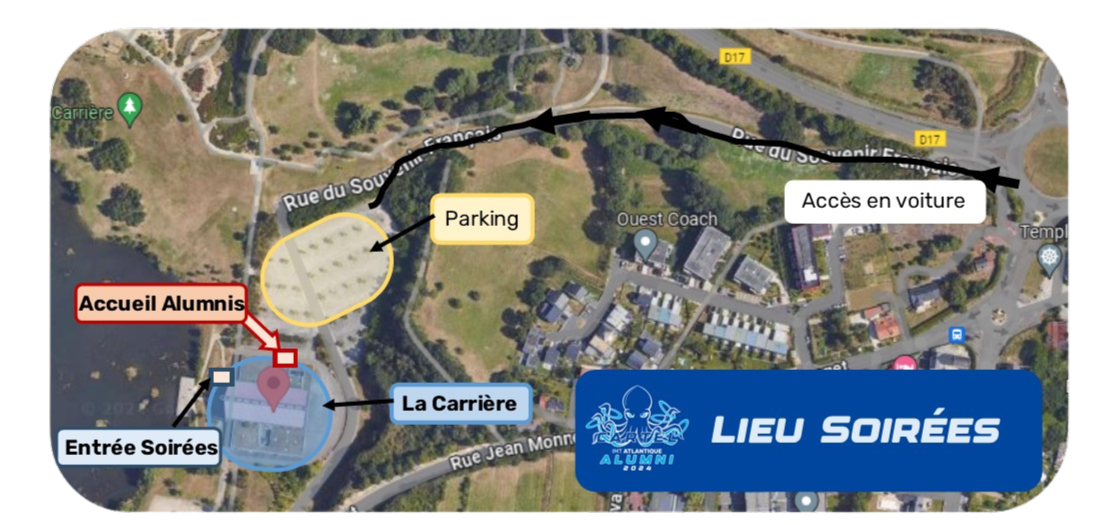
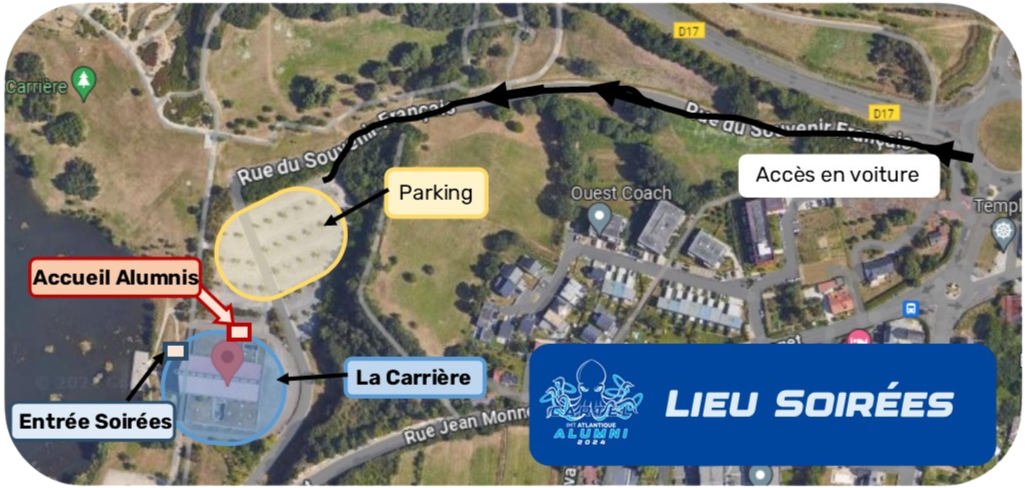
modif page info

diff --git a/alumni/info.html b/alumni/info.html
@@ -3,21 +3,121 @@
         <meta charset="utf-8">
         <link href="https://cdn.jsdelivr.net/npm/bootstrap@5.2.3/dist/css/bootstrap.min.css" rel="stylesheet">
         <script src="https://cdn.jsdelivr.net/npm/bootstrap@5.2.3/dist/js/bootstrap.bundle.js"></script>
-        <script type="text/javascript" src="src/template.js"></script>
+        <script type="text/javascript" src="../src/template.js"></script>
     </head>
 
+<style>
+    .img_part1{
+        display: flex;
+        flex-direction: row;
+    }
 
-<script>generateHeader(0)</script>
+    .img_part1 img{
+        padding-top: 2vh;
+        padding-bottom: 2vh;
+    }
+
+    .img_part1 .img1 {
+        width: 55vw;
+    }
+
+    .img_part1 .img2 {
+        width: 35vw;
+    }
+
+    .img_part2{
+        display: flex;
+        flex-direction: row;
+        justify-content: space-around;
+        align-items: center;
+    }
+
+    .img_part2 div{
+        margin: 2vh;
+    }
+
+    .img_part2 img{
+        padding-bottom: 2vh;
+    }
+
+    .img_part2 .img1 {
+        width: 40vw;
+    }
+
+    .img_part2 .img2 {
+        width: 40vw;
+    }
+
+
+    @media screen and (orientation: portrait) {
+        .img_part1{
+            display: flex;
+            flex-direction:column;
+            align-items:center;
+        }
+
+        .img_part1 .img1 {
+            width: 90vw;
+
+        }
+
+        .img_part1 .img2 {
+            width: 55vw;
+        }
+
+        .img_part2{
+            display: flex;
+            flex-direction:column;
+            align-items:center;
+        }
+
+        .img_part2 .img1 {
+        width: 70vw;
+        }
+
+        .img_part2 .img2 {
+            width: 70vw;
+        }
+        .img_part2 div{
+            display: flex;
+            flex-direction: column;
+            align-items: center;
+        }
+        .img_part2 h4{
+            width: 100%;
+        }
+
+    }
+
+</style>
+
+<script>generateHeader(1)</script>
 <body class="d-flex flex-column min-vh-100">
     <div class="container_texte">
         <h1>Tournoi alumni</h1>
         <h4>Vous êtes alumni et sportif? Venez participer au tournoi Alumni le 27 avril pour ses 50 ans.Mobilisez vos amis et réservez votre week-end ! Au programme du sport et 2 soirées.</h4>
         <h4>Le format Alumni du Cartel 2024 se présente sous la forme d'un pack unique pour les alumnis désirant participer à un tournoi sportif spécifique aux alumnis. Les inscriptions se feront suivant la règle du premier arrivé premier servi. La billetterie ouvrira le 1er mars à 13h et fin le 15 avril à 23h59</h4>
-        <img src="src/tournoi_alumni.png" style="width: 100%;padding-top:3vh">
+        <div class="img_part1">
+            <img class="img1" src="src/tournoi_alumni.png">
+            <img class="img2" src="src/Planning tournoi alumni.png">
+        </div>
+        <h1>Les lieux</h1>
+        <div class="img_part2">
+            <div>
+                <h4 style="text-align: center;">Salle de Soirée : La Carrière </h4>
+                <h4 style="text-align: center;">2 bis, rue du Souvenir Français – 44800 Saint-Herblain</h4>
+                <img class="img1" src="src/lieu sport.png">
+            </div>
+            <div>
+                <h4 style="text-align: center;">Lieu du tournoi : Gymnase de Polytech Nantes</h4>
+                <h4 style="text-align: center;">Rue Christian Pauc - 44300 Nantes</h4>
+                <img class="img2" src="src/lieu soiree.png">
+            </div>
+        </div>
     </div>
 </body>
 
 
-<script>generateFooter(0)</script>
+<script>generateFooter(1)</script>
 
 </html>

diff --git a/alumni/inscription.html b/alumni/inscription.html
@@ -7,17 +7,16 @@
     </head>
 
 
-<script>generateHeader(0)</script>
+<script>generateHeader(1)</script>
 <body class="d-flex flex-column min-vh-100">
     <div class="container_texte">
         <h1>Tournoi alumni</h1>
-        <h4>Vous êtes alumni et sportif? Venez participer au tournoi Alumni le 27 avril pour ses 50 ans.Mobilisez vos amis et réservez votre week-end ! Au programme du sport et 2 soirées.</h4>
         <h4>Le format Alumni du Cartel 2024 se présente sous la forme d'un pack unique pour les alumnis désirant participer à un tournoi sportif spécifique aux alumnis. Les inscriptions se feront suivant la règle du premier arrivé premier servi. La billetterie ouvrira le 1er mars à 13h et fin le 15 avril à 23h59</h4>
-        <img src="src/tournoi_alumni.png" style="width: 100%;padding-top:3vh">
+        <img src="src/comment sinscrire.png" style="width: 70vw;">
     </div>
 </body>
 
 
-<script>generateFooter(0)</script>
+<script>generateFooter(1)</script>
 
 </html>
